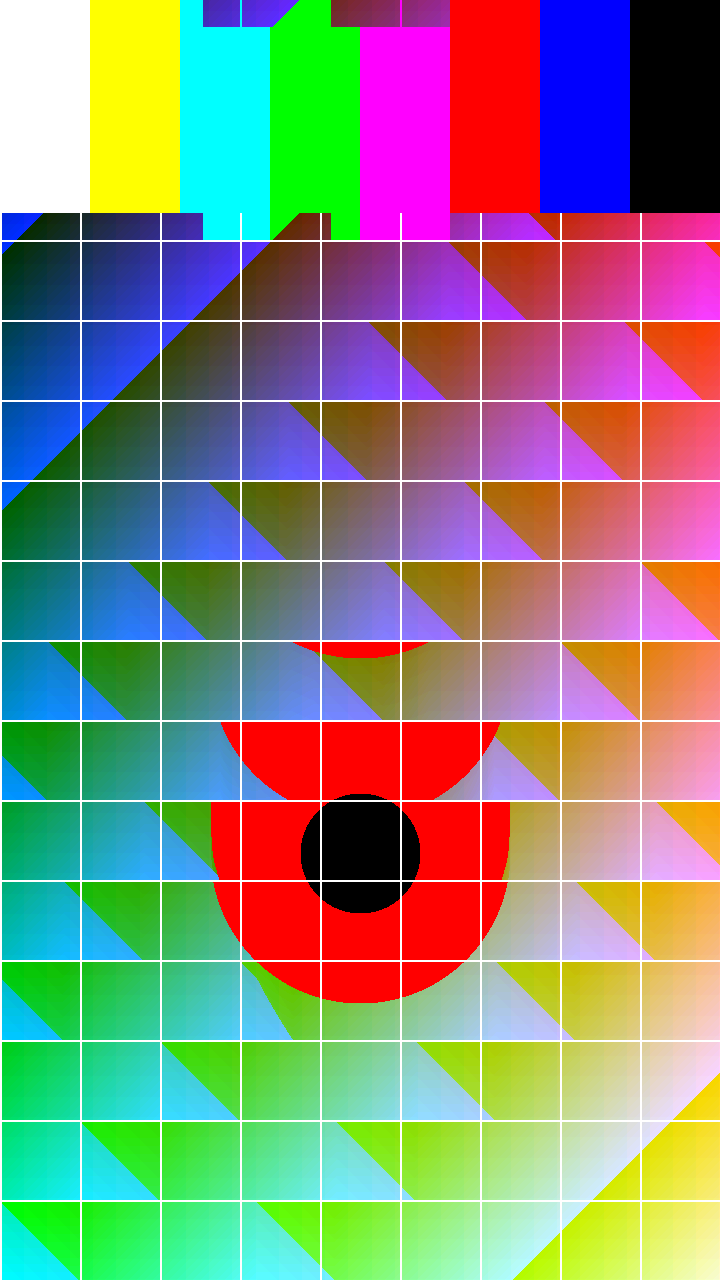
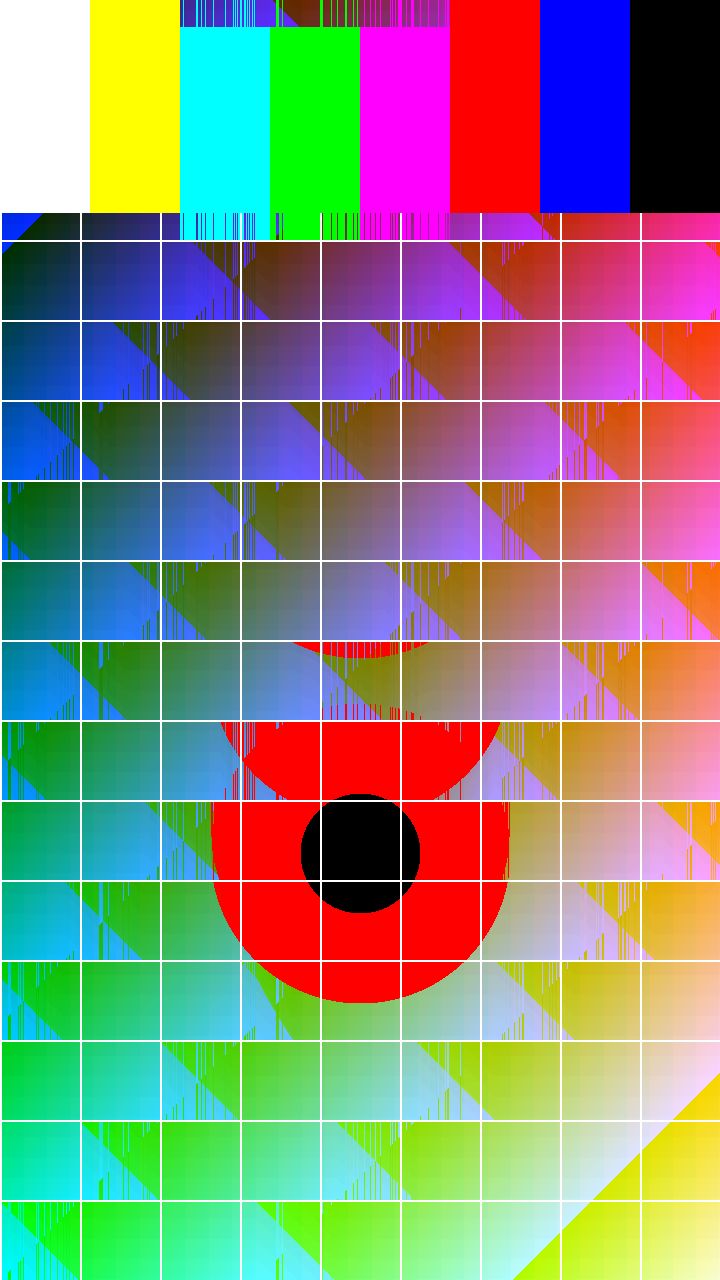
Vertical pixel sort via column tiles; JPEG quality from settings

diff --git a/firmware/main/effects/fx_pixelsort.c b/firmware/main/effects/fx_pixelsort.c
@@ -1,11 +1,14 @@
 /*
- * Pixel sorting (Kim Asendorf style). Along each row (or column) find runs of pixels whose
+ * Pixel sorting (Kim Asendorf style). Along each row or column find runs of pixels whose
  * brightness lies inside [lo, hi] and sort the pixels of each run by brightness. Runs that
  * start/end at bright or dark edges produce the typical "melting" streaks.
  *
  * Sorting uses a counting sort over the 256 luma levels, so it is O(n) per run and needs no
- * recursion or big stack. Scratch lives in static buffers: the pipeline runs one effect at a
- * time on one task.
+ * recursion. Scratch lives in static buffers: this effect is not row-parallel.
+ *
+ * Vertical mode (the classic look) is cache-hostile if done column by column, so columns are
+ * processed in tiles of TILE_COLS: gather the tile row by row (one contiguous chunk per row),
+ * sort each column inside the tile, scatter it back row by row.
  */
 #include <math.h>
 #include <string.h>
@@ -17,7 +20,7 @@ enum { P_LO, P_HI, P_VERTICAL, P_REVERSE, P_MIN_RUN, P_SKIP };
 static const fx_param_t s_params[] = {
     { "lo",       "Luma low",         0, 255, 60 },
     { "hi",       "Luma high",        0, 255, 200 },
-    { "vertical", "Vertical (1)",     0, 1, 0 },
+    { "vertical", "Vertical (1)",     0, 1, 1 },
     { "reverse",  "Dark to bright",   0, 1, 0 },
     { "min_run",  "Min run (px)",     2, 400, 12 },
     { "skip",     "Skip chance",      0, 1, 0.0f },
@@ -28,16 +31,18 @@ static void from_amount(float a, float *p)
     /* widen the window with amount: more pixels qualify -> longer streaks */
     p[P_LO] = 120.0f - a * 110.0f;
     p[P_HI] = 140.0f + a * 110.0f;
-    p[P_VERTICAL] = 0;              /* rows: cache friendly. Columns need the tile path (TODO) */
+    p[P_VERTICAL] = 1;
     p[P_REVERSE] = 0;
     p[P_MIN_RUN] = 40.0f - a * 30.0f;
     p[P_SKIP] = 0.6f - a * 0.6f;
 }
 
-#define MAX_LINE 2048
+#define MAX_LINE   2048
+#define TILE_COLS  16                       /* 16 columns x 2 bytes = 32 B contiguous per row */
 static uint16_t s_line[MAX_LINE];
 static uint8_t  s_luma[MAX_LINE];
 static uint16_t s_sorted[MAX_LINE];
+static uint16_t s_tile[TILE_COLS * MAX_LINE];   /* column-major tile: [col][row] */
 
 /* counting sort of line[a..b) by luma, ascending (or descending when reverse) */
 static void FX_HOT sort_run(int a, int b, int reverse)
@@ -45,7 +50,6 @@ static void FX_HOT sort_run(int a, int b, int reverse)
     unsigned hist[256];
     memset(hist, 0, sizeof(hist));
     for (int i = a; i < b; i++) hist[s_luma[i]]++;
-    /* prefix sums -> start offsets */
     unsigned pos = 0;
     if (!reverse) {
         for (int v = 0; v < 256; v++) { unsigned c = hist[v]; hist[v] = pos; pos += c; }
@@ -83,6 +87,7 @@ static void FX_HOT apply(const fx_frame_t *in, fx_frame_t *out, const float *p, 
     int min_run = fx_clampi((int)p[P_MIN_RUN], 2, MAX_LINE);
     float skip = fx_clampf(p[P_SKIP], 0, 1);
     int W = in->w, H = in->h;
+    if (H > MAX_LINE) H = MAX_LINE;
 
     if (!vertical) {
         for (int y = 0; y < H; y++) {
@@ -93,16 +98,28 @@ static void FX_HOT apply(const fx_frame_t *in, fx_frame_t *out, const float *p, 
             process_line(W, lo, hi, reverse, min_run);
             memcpy(dst, s_line, (size_t)W * 2);
         }
-    } else {
-        /* columns: gather, sort, scatter. Cache-unfriendly but simple; fine for a preview. */
-        if (in->px != out->px) fx_frame_copy(in, out);
-        for (int x = 0; x < W; x++) {
+        return;
+    }
+
+    /* vertical: tiles of TILE_COLS columns */
+    for (int x0 = 0; x0 < W; x0 += TILE_COLS) {
+        int cols = W - x0 < TILE_COLS ? W - x0 : TILE_COLS;
+        /* gather: row y, columns x0..x0+cols -> tile[c][y] */
+        for (int y = 0; y < H; y++) {
+            const uint16_t *src = in->px + (size_t)y * in->stride_px + x0;
+            for (int c = 0; c < cols; c++) s_tile[c * MAX_LINE + y] = src[c];
+        }
+        /* sort each column of the tile in place */
+        for (int c = 0; c < cols; c++) {
             if (skip > 0 && fx_rng_f(&rng) < skip) continue;
-            const uint16_t *src = in->px + x;
-            for (int y = 0; y < H; y++) s_line[y] = src[(size_t)y * in->stride_px];
+            memcpy(s_line, &s_tile[c * MAX_LINE], (size_t)H * 2);
             process_line(H, lo, hi, reverse, min_run);
-            uint16_t *dst = out->px + x;
-            for (int y = 0; y < H; y++) dst[(size_t)y * out->stride_px] = s_line[y];
+            memcpy(&s_tile[c * MAX_LINE], s_line, (size_t)H * 2);
+        }
+        /* scatter */
+        for (int y = 0; y < H; y++) {
+            uint16_t *dst = out->px + (size_t)y * out->stride_px + x0;
+            for (int c = 0; c < cols; c++) dst[c] = s_tile[c * MAX_LINE + y];
         }
     }
 }

diff --git a/firmware/main/storage/capture.c b/firmware/main/storage/capture.c
@@ -14,6 +14,7 @@
 #include "mbedtls/base64.h"
 #include "capture.h"
 #include "frame_pipeline.h"
+#include "settings.h"
 
 static const char *TAG = "capture";
 
@@ -99,7 +100,7 @@ static void write_sidecar(const char *jpg_path, uint32_t jpeg_bytes, uint32_t se
             "  \"frame_no\": %lu,\n"
             "  \"effects\": [",
             strrchr(jpg_path, '/') ? strrchr(jpg_path, '/') + 1 : jpg_path,
-            FP_OUT_W, FP_OUT_H, (unsigned long)jpeg_bytes, CAPTURE_JPEG_QUALITY,
+            FP_OUT_W, FP_OUT_H, (unsigned long)jpeg_bytes, settings_get()->jpeg_quality,
             (unsigned long)seq, (long long)(esp_timer_get_time() / 1000),
             (double)r->amount, (unsigned long)r->seed, (unsigned long)r->frame_no);
     int written = 0;
@@ -131,7 +132,7 @@ static void capture_task(void *arg)
             .height = FP_OUT_H,
             .src_type = JPEG_ENCODE_IN_FORMAT_RGB565,
             .sub_sample = JPEG_DOWN_SAMPLING_YUV420,
-            .image_quality = CAPTURE_JPEG_QUALITY,
+            .image_quality = settings_get()->jpeg_quality,
             .pixel_reverse = false,
         };
         uint32_t out_size = 0;

diff --git a/firmware/main/app_main.c b/firmware/main/app_main.c
@@ -1,5 +1,5 @@
 /*
- * glitchESP — M1 skeleton camera app.
+ * glitchESP ??? M1 skeleton camera app.
  * Camera (OV5647 / MIPI-CSI) -> ISP -> RGB565 -> [effects] -> panel frame buffer (+UI layer) on the 720x1280 LCD.
  * BOOT button = shutter: hardware JPEG encode of the displayed frame -> /sdcard/GLITCH.
  */
